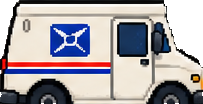
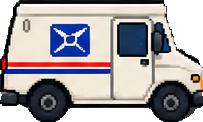
Cut the van's tyres in full instead of slicing them flat
The extraction took the body mask's lowest row as the baseline to fill down
to, but the tyres hang below the body -- so every wheel was cut off at the
axle and read as a flat half-circle. The baseline now walks further down
while a real run of tyre-black pixels continues (>=18 px per row under 45
luminance) and stops where it thins into the sheet's ground shadow, capped
at 30% of body height. The fill threshold also tightens from 72 to 58 so it
takes the tyres without dragging in the softer shadow around them.

Side views gain 18-19px of wheel; the front and rear views only needed 2-3px,
since almost nothing hangs below their bodies.

VAN_H rises 58 -> 69 to compensate: the sprite now includes the tyres, so
the same rendered height would otherwise have shrunk the body on screen.

Verified in the browser: the van still drives 1675px down the vertical road
past all 3 cross streets, turns and runs 807px along one, stays on the
tarmac, and hopping out lands clear of obstacles. No console errors.

diff --git a/game.js b/game.js
@@ -198,7 +198,8 @@ const MAILBOX_STYLES = Object.keys(ASSET_PATHS.mailboxes);
 
 const STREET_W = 170;      // horizontal street band width
 const PLAYER_R = 11;       // player collision radius, also sizes mailbox approach clearance
-const VAN_H = 58;          // rendered van height; length follows the sprite's aspect
+const VAN_H = 69;          // rendered van height; the sprite includes the tyres,
+                           // so this is taller than the body alone. Length follows the aspect.
 const VAN_SPEED = 260;     // noticeably quicker than the 130 the carrier walks
 const VAN_ENTER_R = 62;    // how close you must be to climb in
 const WORLD_W = 900;       // exactly the canvas width: fills it edge to edge,
